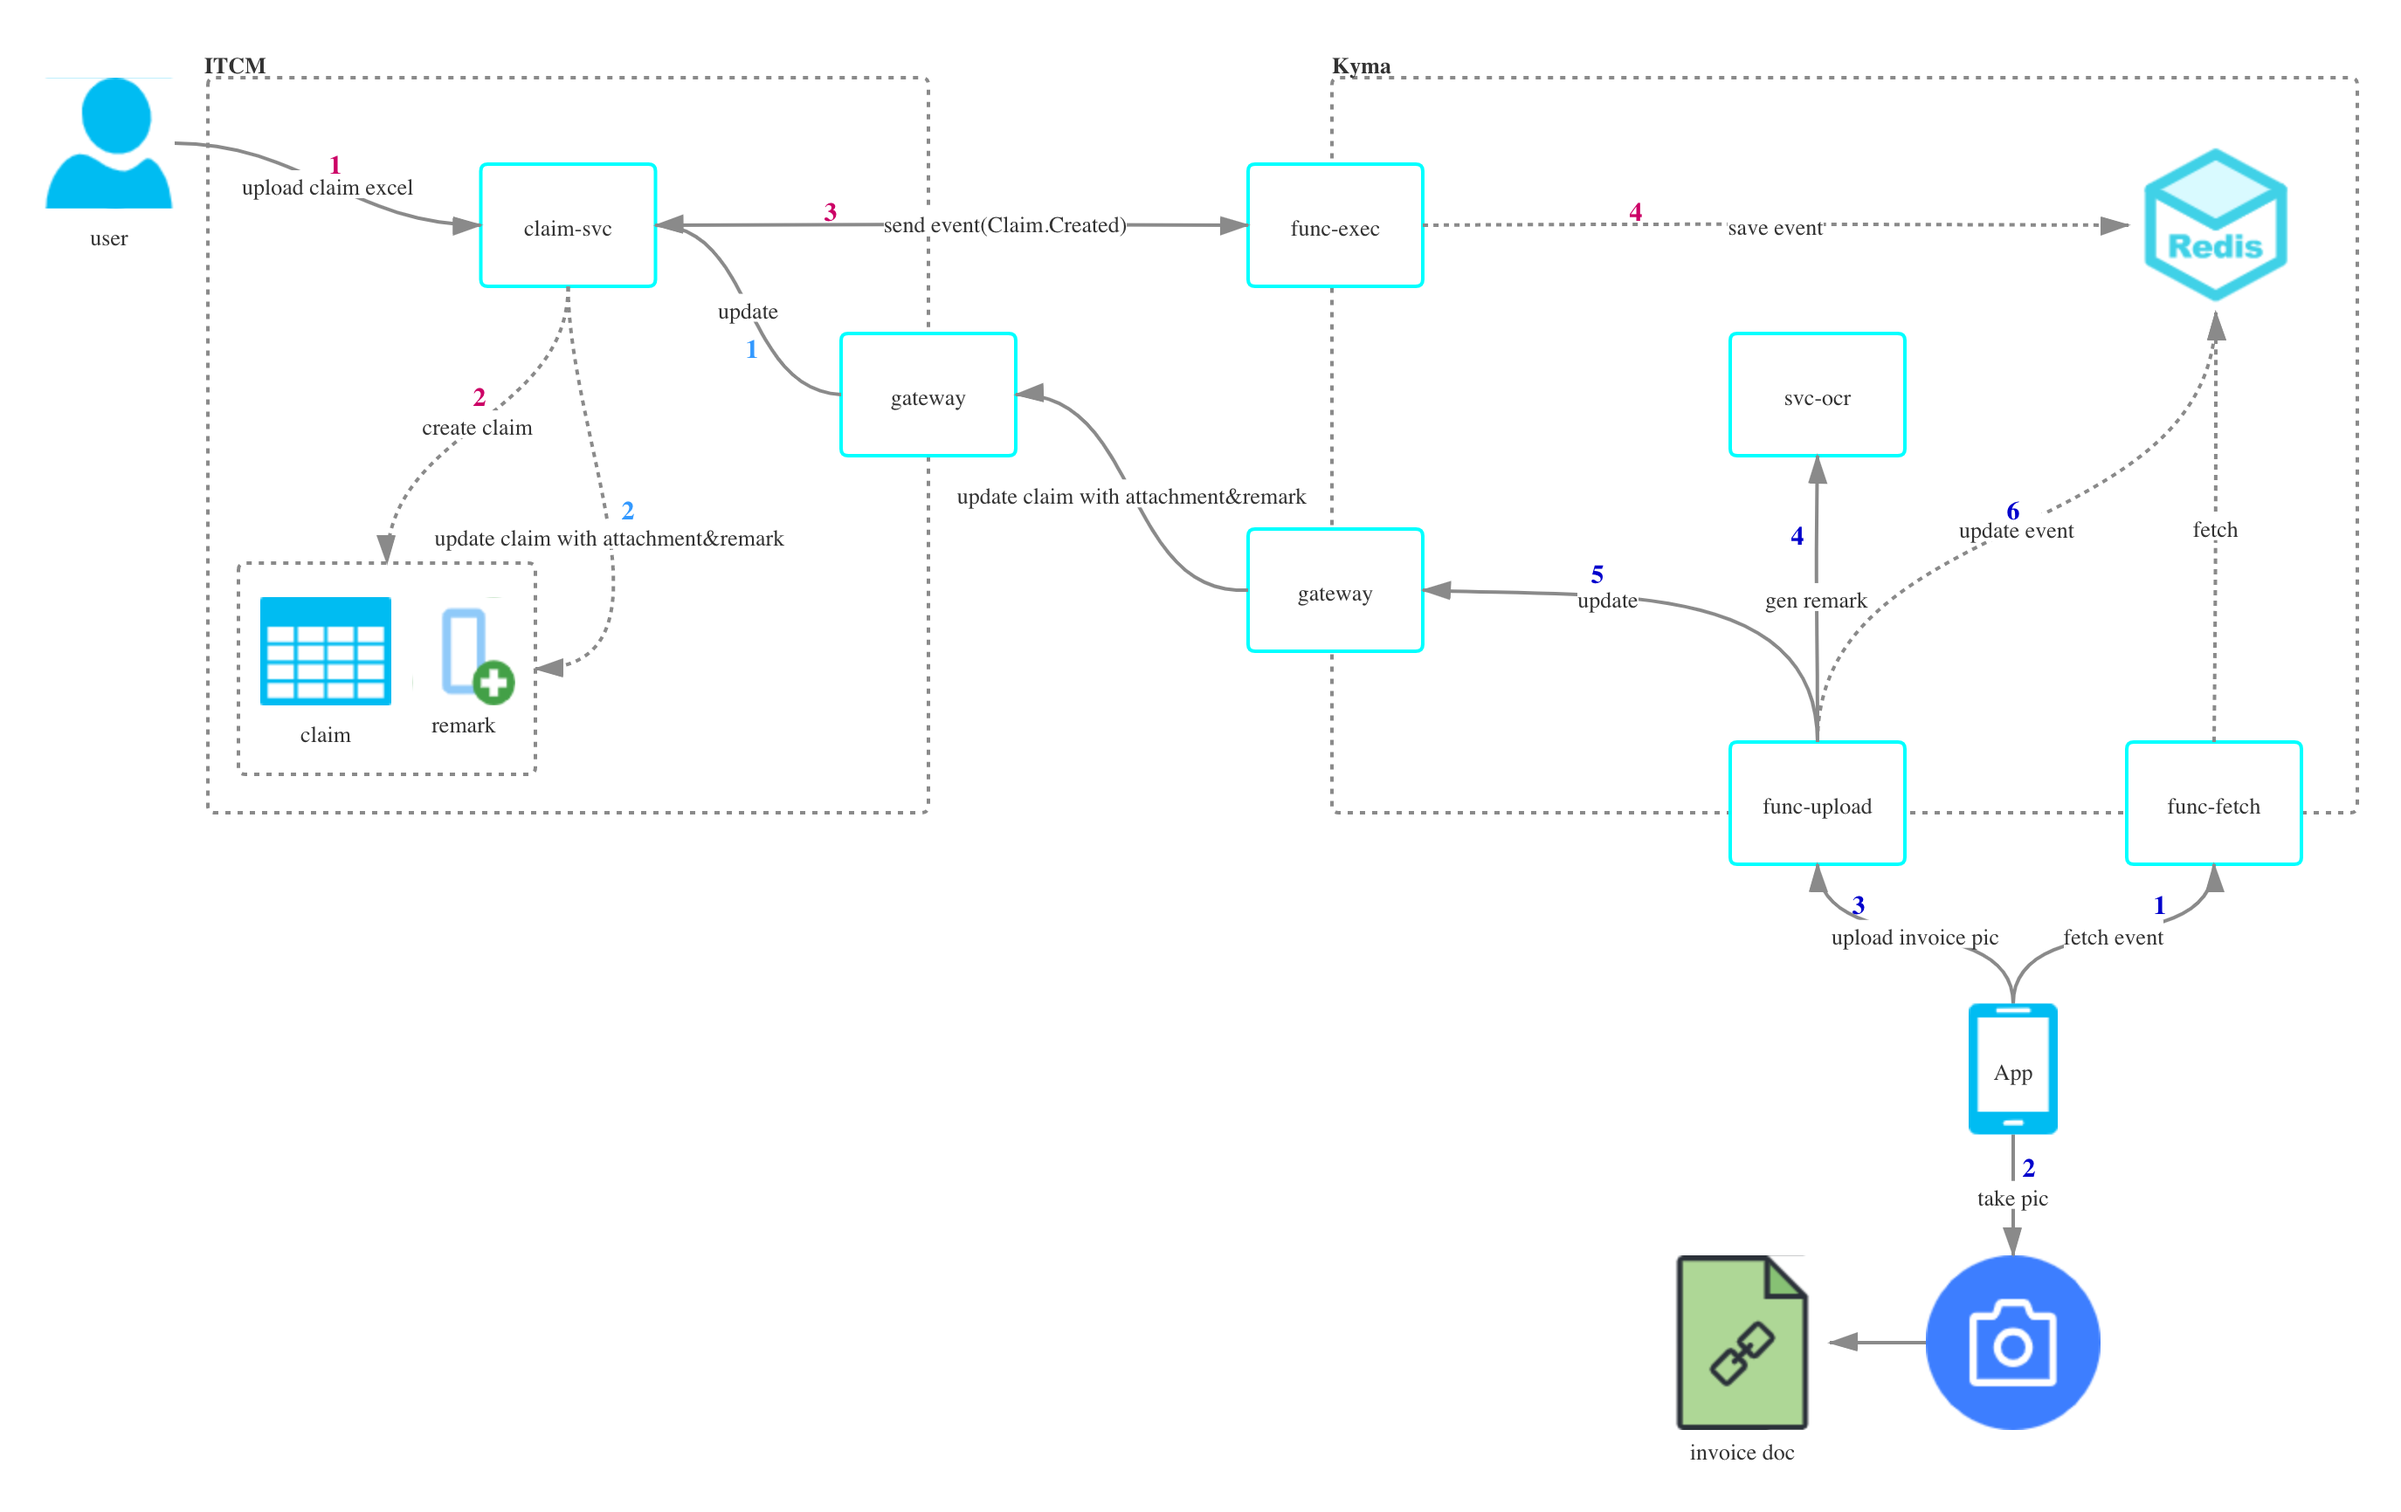
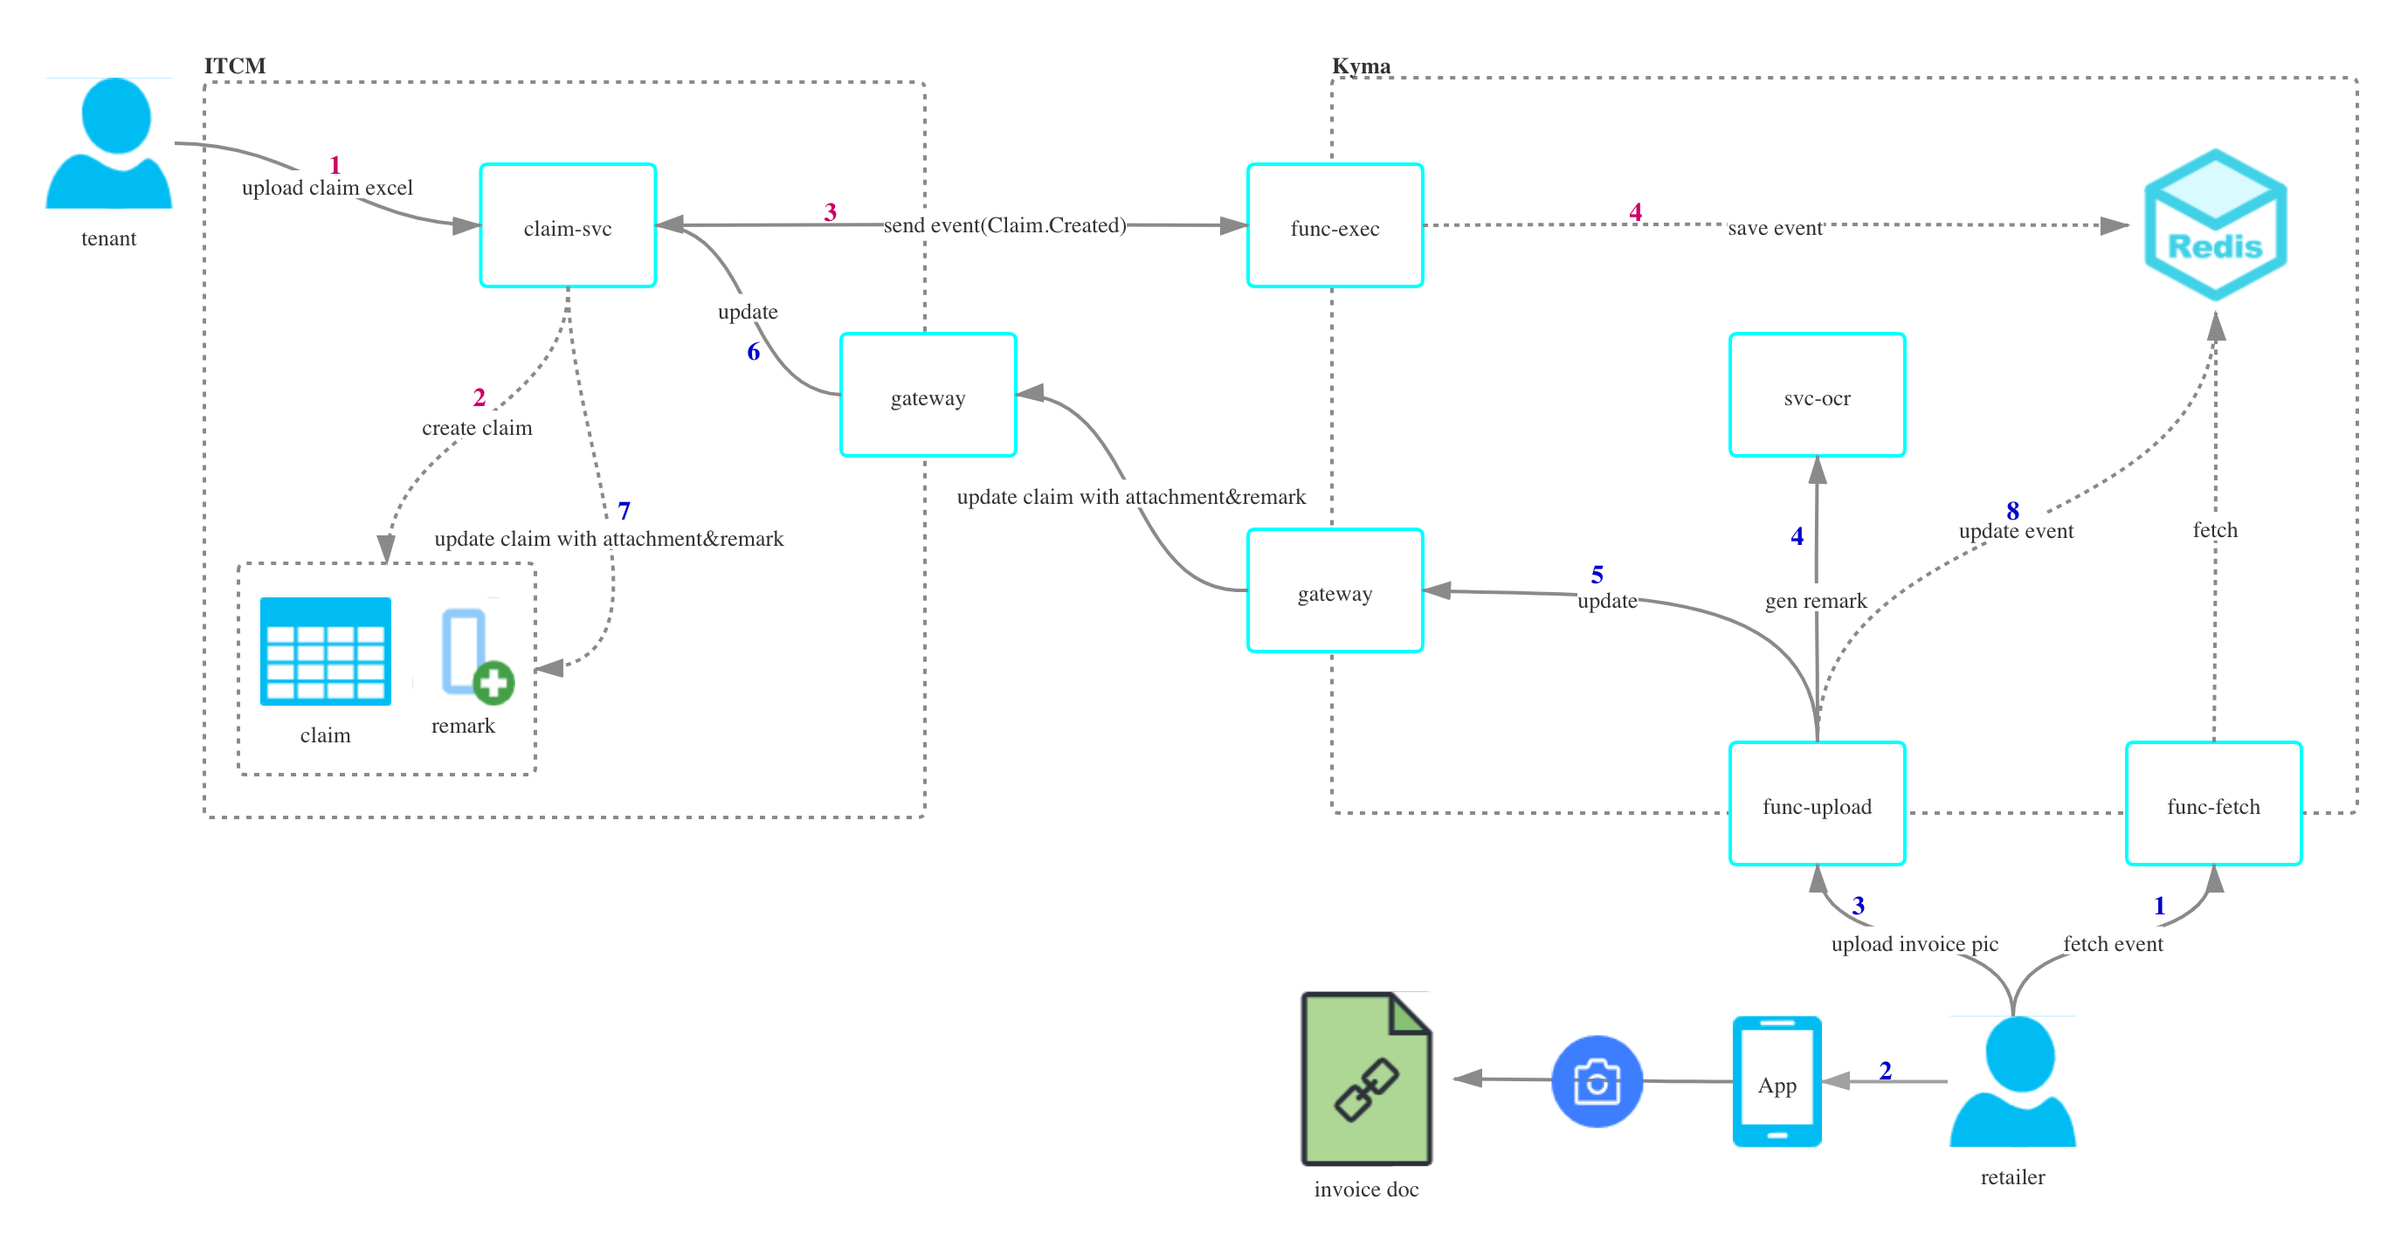
Update doc.

diff --git a/README.md b/README.md
@@ -4,7 +4,8 @@ This repository contains the material for the SAP TechEd 2020 session called DT2
 
 ## Overview
 
-This session introduces attendees to SAP ITCM extensibility from Kyma runtime, which brings smooth integration experiences between ITCM and Kyma runtime. The extensibility not only makes possible integration between ITCM and SAP on promise solution via Kyma runtime but also can be leveraged by partners to provide customized solutions and full fill their e2e user cases around ITCM.
+This session introduces attendees to SAP ITCM extensibility from Kyma runtime, which brings smooth integration experiences between ITCM and Kyma runtime. 
+The extensibility not only makes possible integration between ITCM and SAP on promise solution via Kyma runtime but also can be leveraged by partners to provide customized solutions and full fill their e2e user cases around ITCM.
 
 - **ITCM** </br>
 A Kubernetes based SaaS offering, behind the scenes, is composed of serval micro-services. Communication with each other is mostly events, which is known as an event-driving architecture.
@@ -14,14 +15,16 @@ A Kubernetes based SaaS offering, behind the scenes, is composed of serval micro
 > Kyma is a cloud-native extensibility framework developed to overcome the challenges of digital transformation, which include heterogeneous product portfolio, monolithic deployments, and cloud-native development. Our goal is to provide application extensions in a cloud-native fashion and with increased agility through seamless integration with the products.</br>
  \- cxwiki.sap.com
 
-ITCM build-in supports for Kyma runtime, in ITCM Extension Center, user can easily register Kyma runtime, publish event Mesh or Open API to Kyma runtime. Use a serverless function for a customized solution in Kyma runtime. In a serverless fashion, partners can focus on the integration code only. CI/CD part like building, deployment, autoscale,   etc., will be taken over by Kyma runtime.
+ITCM build-in supports for Kyma runtime, in ITCM Extension Center, users can easily register Kyma runtime, publish Event Mesh or Open API to Kyma runtime. 
+Use a serverless function for a customized solution in Kyma runtime. With a serverless function, partners can focus on the integration logic only. 
+CI/CD part like building, deployment, autoscaling, etc., will be taken over by Kyma runtime.
 
-Exercises demonstrate an e2e integration case from ITCM to Kyma step by step.
+The exercises demonstrate an e2e integration case from ITCM to Kyma step by step.
 
 ## Requirements
 
-- ITCM solution provision on cloud
-- Kyma runtime provision by SAP Cloud Platform(SCP) or Kyma cli on cloud
+- ITCM solution provisioned on cloud
+- Kyma runtime provisioned by SAP Cloud Platform(SCP) or Kyma cli on cloud
 
 ## Exercises
 
@@ -41,7 +44,7 @@ Exercises demonstrate an e2e integration case from ITCM to Kyma step by step.
     - [Step 3.2 - Upload invoice pic to Kyma runtime from the ITCM mobile app](exercises/ex3#step-32---upload-invoice-pic-to-kyma-runtime-from-the-itcm-mobile-app)
     - [Step 3.3 - Upload function process the invoice pic in Kyma runtime and update claim in ITCM](exercises/ex3#step-33---upload-function-process-the-invoice-pic-in-kyma-runtime-and-update-claim-in-itcm)
 
-exercises demo video [here](https://sap.sharepoint.com/:v:/r/teams/S4HANALabs-Eureka/Shared%20Documents/04%20-%20Engineering%20%26%20Ops/Tech%20Foundations/teched/TechEd.mp4?csf=1&web=1&e=Ll7Q6V).
+Exercises demo video [here](https://sap.sharepoint.com/:v:/r/teams/S4HANALabs-Eureka/Shared%20Documents/04%20-%20Engineering%20%26%20Ops/Tech%20Foundations/teched/TechEd.mp4?csf=1&web=1&e=Ll7Q6V).
 
 **IMPORTANT**
 

diff --git a/exercises/ex2/README.md b/exercises/ex2/README.md
@@ -6,7 +6,7 @@ In this exercise, we will create several serverless functions for extensional se
 Consumer for ITCM domain event.
 
 - **itcm-func-fetch**</br>
-Expose fetch API for mobile App to list domain events.
+Expose fetch API for mobile App to list domain event notifications.
 
 - **itcm-func-upload**</br>
 Expose upload API for mobile App to upload invoice pic.
@@ -16,15 +16,15 @@ Update claim with the remark and attachment in ITCM.
 ## Step 2.1 - Create an exec function for consuming ITCM domain events
 
 function **itcm-func-exec**</br>
-Subscribe the ITCM domain event, persist event to a Redis cluster when the event triggered.
+Subscribe to the ITCM domain event, persist the event to a Redis cluster when the event is triggered.
 
-Create itcm-func-exec from the left panel.
+Create itcm-func-exec.
 ![](/exercises/ex2/images/e2-func-exec.png)
 
 Write code in function source.
 ![](/exercises/ex2/images/e2-func-exec-detail.png)
 
-Type in source code.
+Sample source code.
 ```javascript
 const asyncRedis = require("async-redis");
 const {v4: uuidv4} = require('uuid');
@@ -74,11 +74,11 @@ Add dependencies.
 Add Redis Cluster Environment Variables.
 ![](/exercises/ex2/images/e2-func-exec-env.png)
 
-Subscribe the event by adding an event trigger.
+Subscribe to the event by adding an event trigger.
 ![](/exercises/ex2/images/e2-func-exec-event-trigger.png)
 
 Save operation will trigger serverless function deployment automatically each time.
-Wait until the function status change to running, the function is ready to serve.
+Wait until the function status change to running, then the function is ready to serve.
 
 ## Step 2.2 - Create a fetch function, expose API for the external solution
 
@@ -88,7 +88,7 @@ Fetch event data from Redis Cluster and expose data by a REST API.
 Write code in function source.
 ![](/exercises/ex2/images/e2-func-fetch-source.png)
 
-Type in source code.
+Sample source code.
 ```javascript
 const asyncRedis = require('async-redis');
 const prefix = "claimId-";
@@ -141,8 +141,8 @@ Expose function by API Rule.
 ## Step 2.3 - Create an upload function, process ITCM domain event
 
 function **itcm-func-upload**</br>
-The upload function provide REST API for mobile App upload invoice pic, calling a third party OCR service, extract remark base 
-on the pic, update claim related with remark and pic as an attachment.
+The upload function provide REST API for mobile App to upload invoice pic, calling a third party OCR service, extract remark base 
+on the pic, update claim with the remark, and the pic as an attachment.
 
 Write code in function source.
 ![](/exercises/ex2/images/e2-func-upload-source.png)
@@ -194,7 +194,7 @@ function extractRemark(base64) {
 
   try {
     let res = request("POST", process.env.OCR_URL, { json: data });
-    let result = JSON.parse(res.getBody('utf8'));
+    result = JSON.parse(res.getBody('utf8'));
     console.log("ocr input: %s, ocr result: %s", base64, result);
   } catch (e) {
     console.log("ocr error: %s", e);
@@ -203,7 +203,7 @@ function extractRemark(base64) {
 }
 
 function updateClaim(claimId, remark, base64Str) {
-  let payload = { claimsId: claimId, remark: remark, tenantId: 5005, attachment: base64Str };
+  let payload = { claimsId: claimId, remark: remark, attachment: base64Str };
   console.log("request itcm payload: %s", payload);
   try {
     let res = request("POST", "https://extensions-gateway.dev2.eurekacloud.io/claim-submission/addAttachment", { json: payload });

diff --git a/exercises/ex3/README.md b/exercises/ex3/README.md
@@ -1,11 +1,11 @@
 # Exercise 3 - Interaction between ITCM and Kyma runtime
 
 Now, let's start the interaction!
-First, sync a claim in ITCM. The "Claim Created" event was published through the channel defined in ITCM Extension Center.
-Function itcm-func-exec do the event persistence. 
-Mobile App syncs the event data by calling function itcm-func-fetch.
+First, sync a claim in ITCM. ITCM publishes the "Claim Created" event through the channel predefined in ITCM Extension Center.
+Function *itcm-func-exec* do the event persistence. 
+The mobile app syncs the event data by calling function *itcm-func-fetch*.
 From the mobile app, a retailer process an event by taking a pic of an invoice document.
-Function itcm-func-upload process the pic, call a 3rd party OCR service by REST API. 
+Function *itcm-func-upload* process the pic, call a 3rd party OCR service by REST API. 
 Extract a remark, update related claim with an extracted remark, and the invoice document as an attachment.
 
 ## Step 3.1 - Sync a new claim which has an empty remark in ITCM
@@ -45,5 +45,5 @@ You've now completed the Exercise and learned
 
 - Pair ITCM & Kyma runtime.
 - Implement an extensional service by creating a serverless function in Kyma runtime.
-- Extensibility ITCM is provided, demonstrated by an e2e user case.
+- Powerful Extensibility ITCM provided, demonstrated by an e2e user case.
 

diff --git a/exercises/ex1/README.md b/exercises/ex1/README.md
@@ -4,7 +4,7 @@ In this exercise, you will set up a connection between ITCM and Kyma runtime, re
 
 ## Step 1.1 - Create an ITCM application in Kyma runtime
 
-Create an ITCM application in the Kyma cockpit.
+Create an ITCM application from the Kyma cockpit.
 
 ![](/exercises/ex1/images/e1-create-app.png)
 
@@ -14,19 +14,19 @@ Bind ITCM application to a namespace.
 
 ## Step 1.2 - Register Kyma runtime in ITCM Extension Center
 
-Register Kyma runtime in the ITCM Extension Center system tab.
+Register Kyma runtime in the ITCM Extension Center on the system tab.
 
 ![](/exercises/ex1/images/e1-register-kyma.png)
 
 ## Step 1.3 - Register ITCM exposed domain event APIs
 
-Expose the domain event to Kyma runtime by a secure connection.
+Expose the domain event to Kyma runtime through a secure connection.
 
 ***To secure the connection, you need to generate a private key by the OpenSSL tool and request a certificate signed by Kyma runtime.***
 ***The credential is mandatory for the communication with Kyma runtime.***
 </br>Detail steps:[here](https://kyma-project.io/docs/components/application-connector/#tutorials-get-the-client-certificate)
 
-Choose claims from the categorized event on Event Mesh.
+Choose claims from the categorized event on the Event Mesh tab.
 <br>![](/exercises/ex1/images/e1-events-list.png)
 
 Event reference for claims.

diff --git a/exercises/ex0/README.md b/exercises/ex0/README.md
@@ -1,6 +1,8 @@
 # Introduction
 
- The demo is an e2e integrated case that presents ITCM extensibility from Kyma runtime.
+The demo is an e2e integrated case that presents ITCM extensibility from Kyma runtime.
+
+Business Story:
 
 **From ITCM**,</br>
 New claim sync in ITCM publish a claim created domain event, which is subscribed by a serverless function in Kyma runtime, persists event, and prepares for the processing later on.
@@ -11,13 +13,19 @@ Process the new notification, take a pic of an invoice document. The pic will be
 
 ## Architecture
 
-Follow a pub-sub pattern, ITCM publishes events to Kyma runtime, serverless functions in Kyma runtime process the event then.
+ITCM follows an event-driven architecture.
+With a pub-sub pattern, ITCM publishes events to Kyma runtime through a predefined channel, then
+serverless functions subscribed related channels in Kyma runtime will handle the events. 
 
 ### Architecture Diagram
 
 ![](/exercises/ex0/images/kyma-integration-demo-architecture-diagram.png)
 
 ## Scenario Diagram
+
+Two operating lines for this case:
+- A tenant's claim syncing will kick off the process. ITCM send Claim Created event to Kyma runtime.
+- A retailer from a mobile app handles the event by taking a pic of an invoice document.
 
 ![](/exercises/ex0/images/kyma-integration-demo-diagram.png)
 
